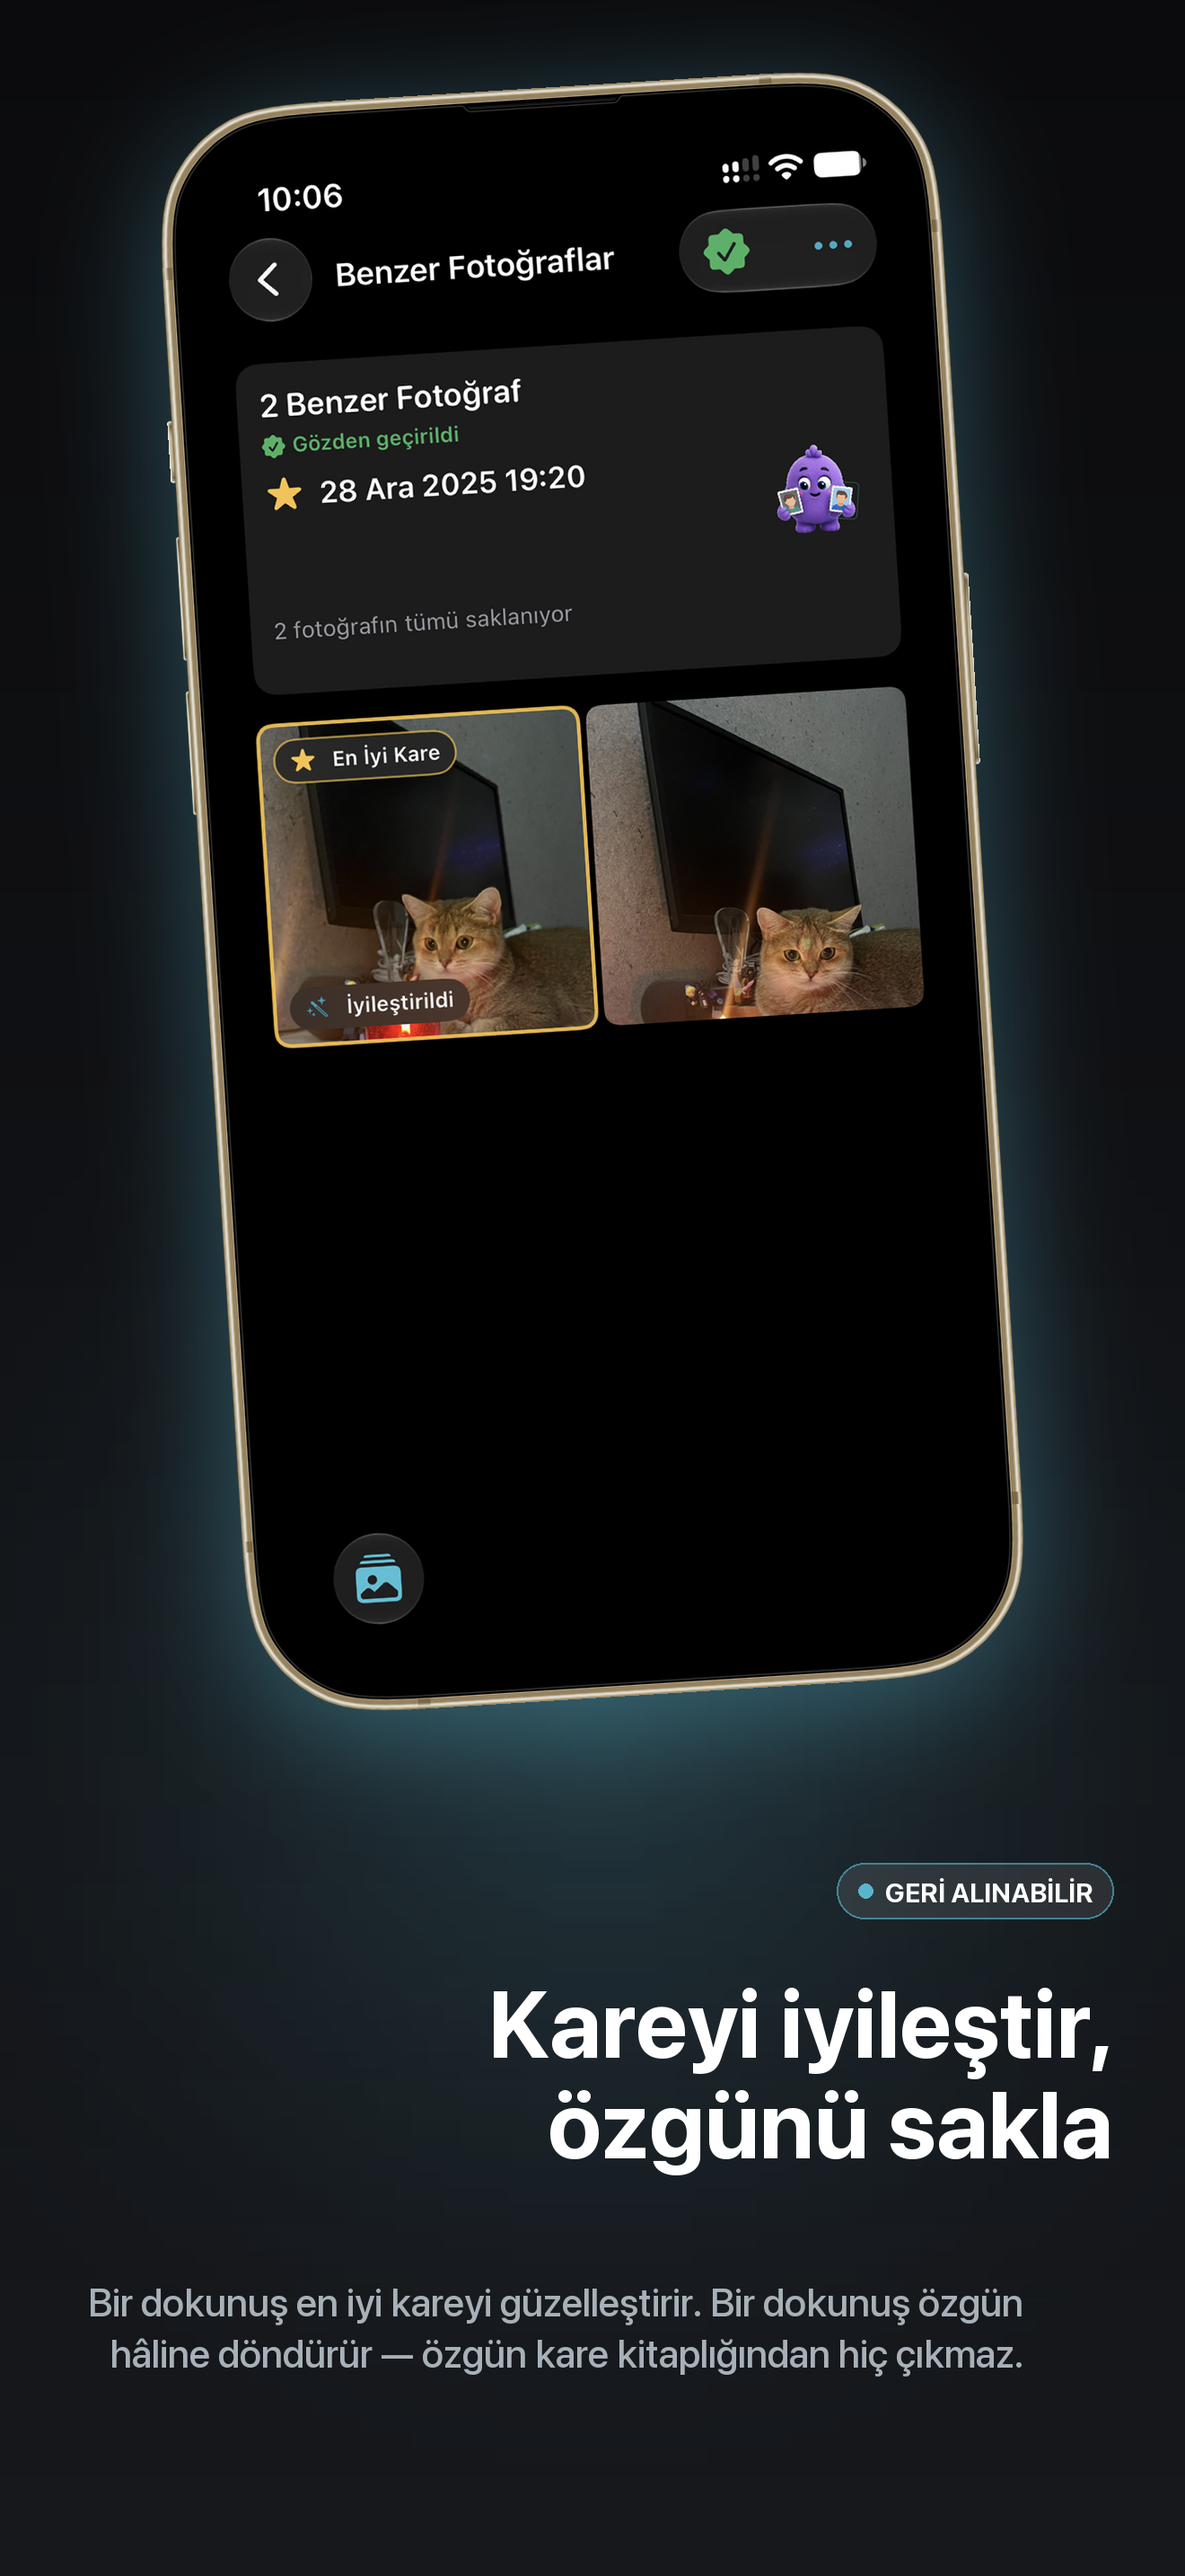
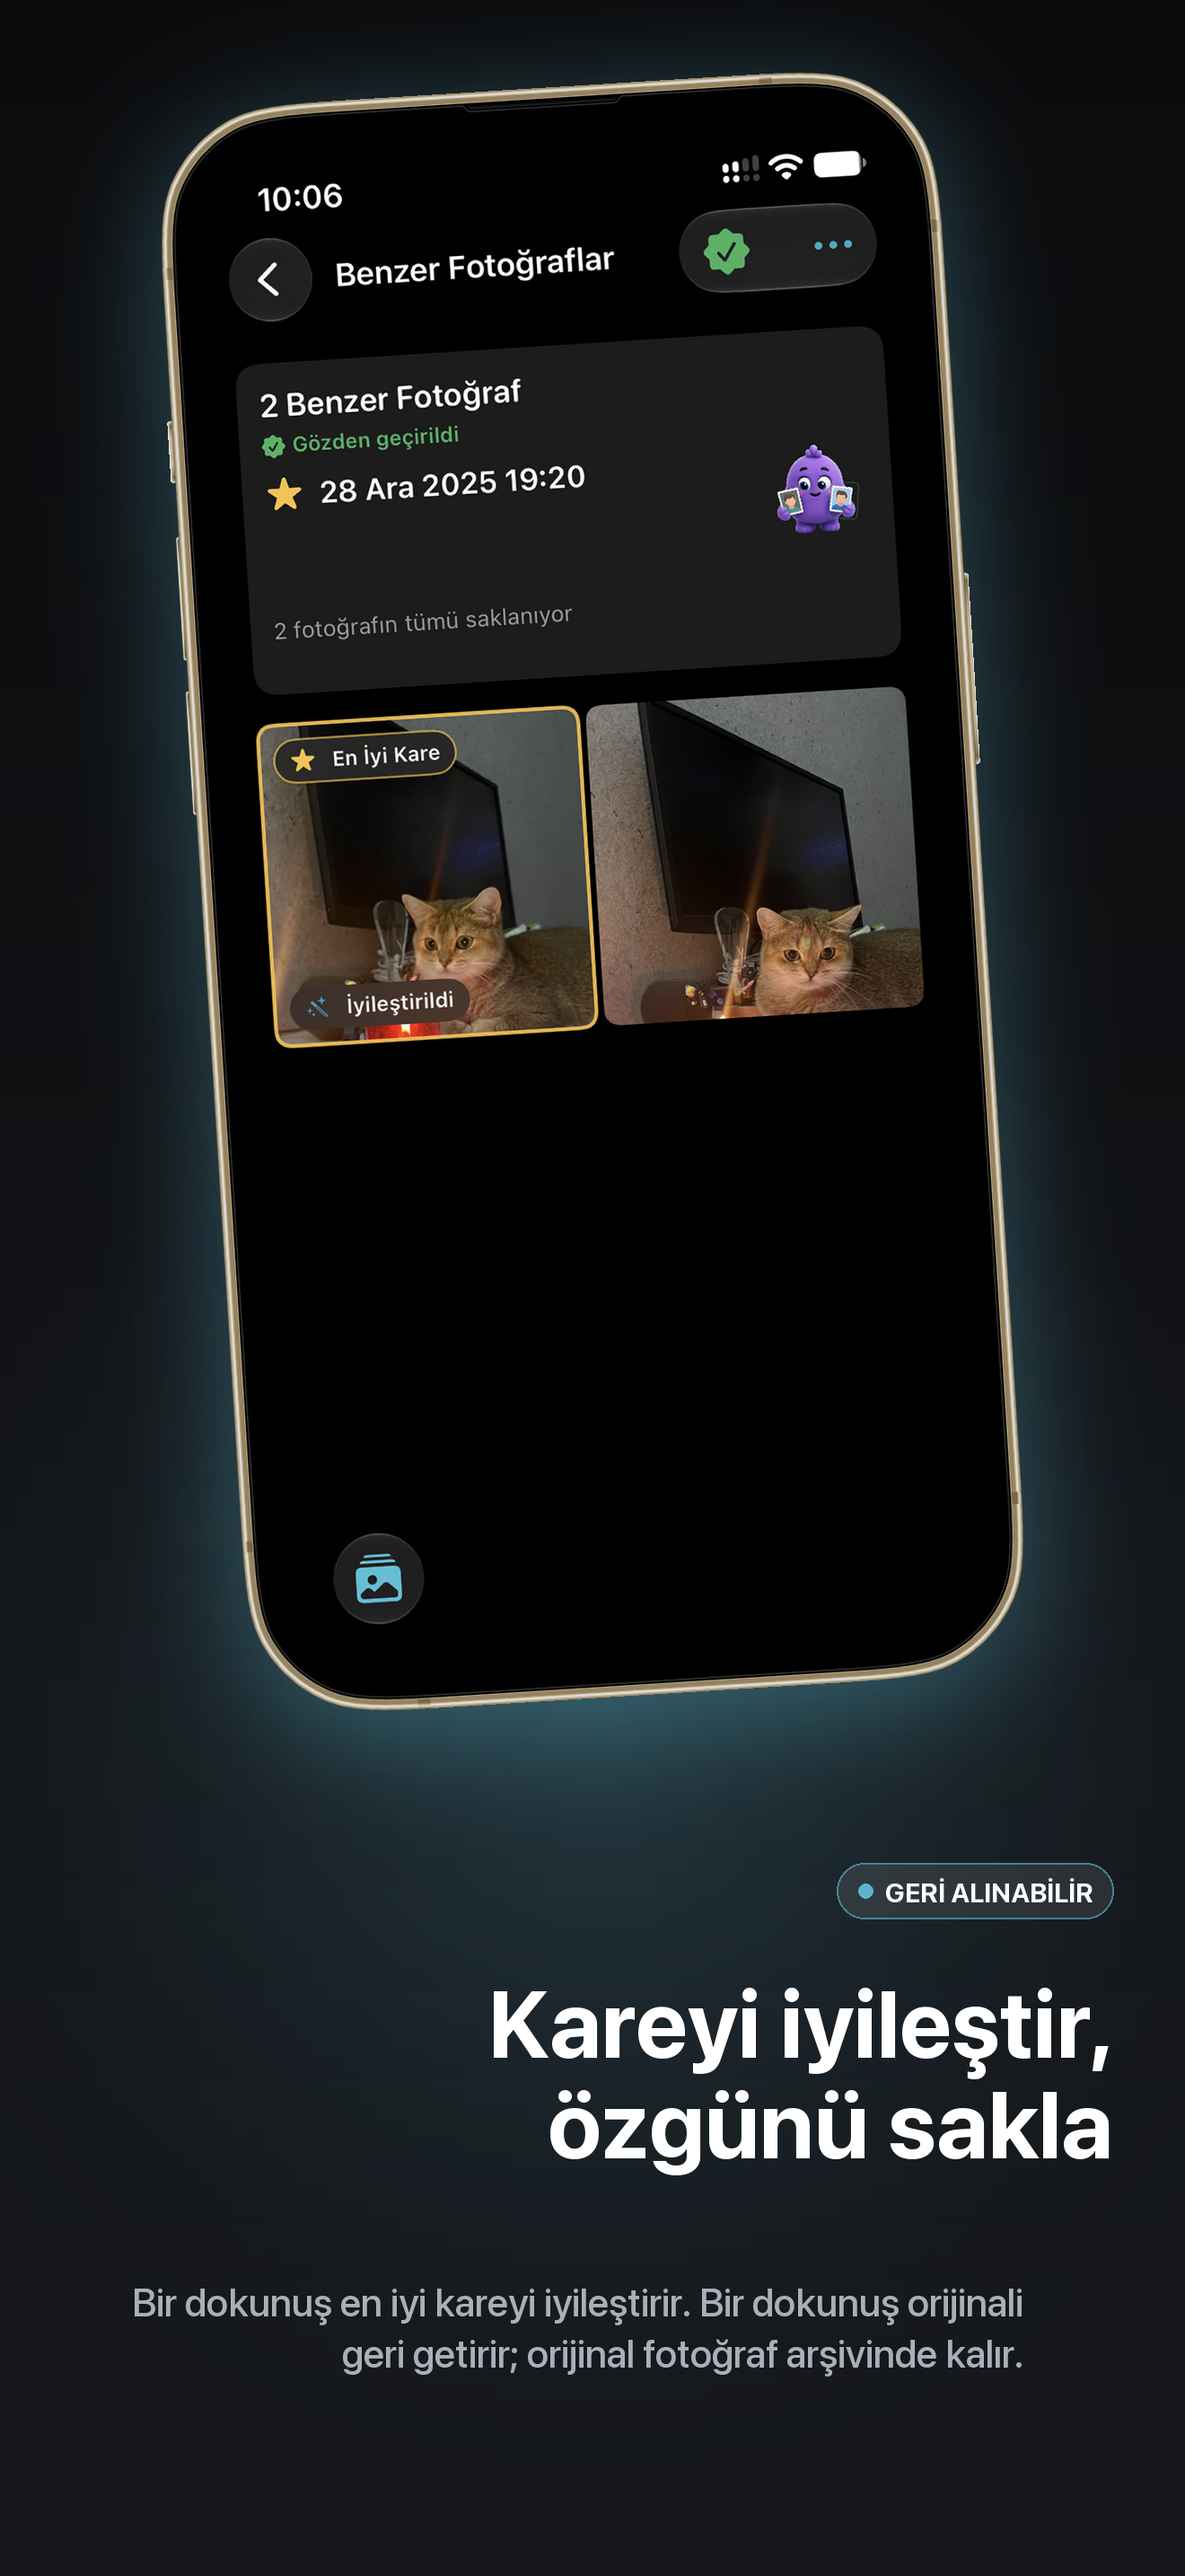
🌐 Turkish: clarify scan allowances and privacy copy, use Photos arşiv terminology, qualify App Store trial wording and refresh three screenshot captions

Changed region(s): [[0.0621, 0.8689, 0.8697, 0.931]]

diff --git a/tools/prepare_app_store_upload_bundle.py b/tools/prepare_app_store_upload_bundle.py
@@ -1256,6 +1256,105 @@ METADATA.update(
 )
 
 
+# Reviewed Turkish storefront copy.
+METADATA['tr'].update(
+{'description': 'Alike, birbirine çok benzeyen fotoğrafları gruplar, en iyi kareyi seçer ve diğerlerini '
+                "temizlemene yardımcı olur. Fotoğrafların iPhone'unda kalır.\n"
+                '\n'
+                'NASIL ÇALIŞIR\n'
+                "Tara. Alike, arşivini Apple'ın Vision çerçevesiyle tamamen iPhone'unda karşılaştırır. Zaman "
+                've yer olarak birbirine yakın çekilen fotoğraflar karşılaştırılır, ekran görüntüleri ise '
+                'sen istemedikçe sonuçlara girmez.\n'
+                'Gözden geçir. En iyi kare önceden seçilidir. Yalnızca onu sakla, diğerlerini seç veya '
+                'seçimini elle yap.\n'
+                "Temizle. Onayla; seçtiğin fotoğraflar Son Silinenler'e taşınır, iOS onları yaklaşık 30 gün "
+                'orada tutar. Fotoğraflar kalıcı olarak silinene kadar depolama alanı boşalmayabilir.\n'
+                '\n'
+                'MESELENİN TAMAMI GİZLİLİK\n'
+                "- Tüm analiz, Apple'ın Vision çerçevesiyle cihazın üzerinde çalışır.\n"
+                '- Hiçbir fotoğraf, küçük resim ya da öznitelik izi hiçbir zaman yüklenmez.\n'
+                '- Hesap yok, oturum açma yok, Alike sunucusu yok.\n'
+                '- Analitik yok, izleme yok, reklam tanımlayıcısı yok.\n'
+                '- Uygulamanın hiçbir yerinde reklam yok.\n'
+                '- Tarama ve temizlik hiçbir bağlantı gerektirmez — Alike uçak modunda da çalışır.\n'
+                '- Açık onayın olmadan hiçbir şey silinmez.\n'
+                '\n'
+                'FOTOĞRAF ARŞİVİN İÇİN\n'
+                '- Üç duyarlılık düzeyi: neredeyse aynı karelerden daha az benzeyen fotoğraflara.\n'
+                '- Fotoğrafların kendisini ölçen En İyi Kare algılama — netlik, pozlama, yüzler ve gürültü — '
+                'böylece her grupta saklanacak makul bir seçenek hazır bekler.\n'
+                '- Sakladığın fotoğraf için isteğe bağlı tek dokunuşluk iyileştirme; orijinali her zaman bir '
+                'dokunuş uzakta.\n'
+                '- Gözden geçirme rozetleri: Yeni, Gözden geçiriliyor, Gözden geçirildi ve yeni taramadan '
+                'sonra Gözden geçirilmeli.\n'
+                '- Fotoğraf ekler ya da silersin, Alike bunu fark eder ve yalnızca değişen grupları yeniden '
+                'getirir — baştan tam tarama gerekmez.\n'
+                '- Çalışırken İlerleme, Seçildi ve Tahmini Kazanç.\n'
+                '- Aya göre gruplanmış Temizlik Geçmişi, ne kadar yer kazandığını görebilesin diye.\n'
+                '- Ferah tek sütunlu düzen ya da daha sık ızgara; istediğin zaman değiştirilir ve '
+                'hatırlanır.\n'
+                "- Uygulamanın içinde aranabilir bir kullanım kılavuzu, Tarayıcı'dan bir dokunuş uzakta.\n"
+                '- İsteğe bağlı temizlik anımsatıcıları, kendi programına göre yerel bildirim olarak gelir.\n'
+                "- Ana ekranda ve kilitli ekranda widget'lar: kazanılabilir alan ve arşiva bir bakış.\n"
+                '- On üç dil ve tam Koyu Mod desteği.\n'
+                '\n'
+                'KONTROL SENDE\n'
+                '- İyileştirme hiçbir şeyi bozmaz: orijinal arşivinde kalır ve tek dokunuş onu geri '
+                'getirir.\n'
+                '- Alike kendi seçtiğin en iyi karelerden öğrenir — hem de cihazında; istediğin an '
+                "Ayarlar'dan sıfırlayabilirsin.\n"
+                '- Ayarlar, sonra Veriler ve Gizlilik, sonra Alike Verilerini Sil; uygulamanın sakladığı her '
+                'tarama sonucunu, temizlik kaydını ve tercihi siler — fotoğraf arşivine ise hiç dokunmaz.\n'
+                '- Tam erişim ya da sınırlı erişim ver: Alike paylaşmayı seçtiğin neyse onunla çalışır.\n'
+                '\n'
+                'ALIKE FREE\n'
+                '- Her takvim ayında 3 tarama\n'
+                '- En İyi Kare ile yönlendirilmiş gözden geçirme\n'
+                '- Tek dokunuşla iyileştirme, her zaman geri alınabilir\n'
+                '- Kendi seçimlerinden öğrenen En İyi Kare\n'
+                '- Sıralama ve temizlik geçmişi\n'
+                '- Fotoğrafları teker teker temizleme\n'
+                "- Widget'lar\n"
+                '\n'
+                'ALIKE PRO\n'
+                '- Yıllık planda 7 gün ücretsiz, uygun yeni aboneler için\n'
+                '- Sınırsız tarama\n'
+                '- Seçimlerin tamamını tek seferde temizleme\n'
+                '- Ekran görüntüsü temizliği\n'
+                '- Bulanık fotoğraf temizliği\n'
+                '- Gelişmiş filtreler\n'
+                '- Kendi temizlik anımsatıcıların\n'
+                '\n'
+                'Alike Pro, yıllık ve aylık planları olan, kendi para biriminde fiyatlanan otomatik '
+                'yenilenen bir aboneliktir. Yıllık plan, uygun yeni aboneler için 7 günlük ücretsiz deneme '
+                'içerir ve faturalandırma deneme sona erdiğinde başlar. Abonelikler, mevcut dönemin '
+                'bitiminden en az 24 saat önce iptal edilmediği sürece otomatik olarak yenilenir ve ödeme '
+                "Apple Hesabından tahsil edilir. Aboneliğini istediğin zaman iOS Ayarları'ndan yönetebilir "
+                'veya iptal edebilirsin.',
+ 'promotional_text': "Kazanabileceğin alanı gör. Fotoğrafların iPhone'unda kalır. Yıllık planda uygun yeni "
+                     'abonelere 7 günlük ücretsiz Pro denemesi. Reklam ve hesap yok.',
+ 'release_notes': "Alike iOS 27'ye hazır: yeni bir widget ve fotoğraflarını daha hızlı ayıklamanın bir "
+                  'yolu.\n'
+                  '\n'
+                  '- Yeni uzun widget ne kadar alan açabileceğini ve en büyük gruplarını gösterir; Benzer '
+                  "Fotoğraflar, Ekran görüntüleri ve Bulanık Fotoğraflar kısayolları da var. Ana Ekran'daki "
+                  'widget galerisinden ekleyebilirsin.\n'
+                  '- Bir grupta fotoğrafı açmadan kaydırarak seçebilir, saklayabilir veya En İyi Kare '
+                  'yapabilirsin. Kaydırma, Ekran Görüntüleri ekranında ve VoiceOver ile de çalışır.\n'
+                  "- Temizlik düğmeleri artık küçük iPhone'lara sığıyor ve fotoğraflar daha akıcı açılıyor.\n"
+                  '- Ana Ekran simgelerin renklendirilmiş veya şeffaf olduğunda widget çizimi renklerini '
+                  'korur.\n'
+                  '\n'
+                  'Yeni widget, kaydırma ve Temizlik düğmeleri iOS 27 gerektirir.\n'
+                  '\n'
+                  'Her şey yine cihazında çalışıyor: hesap yok, yükleme yok; temizlediklerin Son '
+                  "Silinenler'e gider, iOS onları yaklaşık 30 gün orada tutar.\n"
+                  '\n'
+                  'Geri bildirimler ve hata bildirimleri memnuniyetle karşılanır — App Store sayfasındaki '
+                  'destek bağlantısı doğrudan bana ulaşır.'}
+)
+
+
 def parse_args() -> argparse.Namespace:
     parser = argparse.ArgumentParser(description="Prepare Alike App Store metadata and screenshots for fastlane deliver.")
     parser.add_argument(

diff --git a/tools/generate_app_store_product_screenshots.py b/tools/generate_app_store_product_screenshots.py
@@ -690,7 +690,7 @@ COPY = {
         (
             "CİHAZDA",
             "Birbirine benzeyen\nfotoğrafları bul",
-            "Alike, kitaplığını Apple Vision ile tamamen iPhone'unda tarar.",
+            "Alike, fotoğraf arşivini Apple Vision ile tamamen iPhone'unda tarar.",
         ),
         (
             "TEK KUYRUK",
@@ -715,12 +715,12 @@ COPY = {
         (
             "GERİ ALINABİLİR",
             "Kareyi iyileştir,\nözgünü sakla",
-            "Bir dokunuş en iyi kareyi güzelleştirir. Bir dokunuş özgün hâline döndürür — özgün kare kitaplığından hiç çıkmaz.",
+            "Bir dokunuş en iyi kareyi iyileştirir. Bir dokunuş orijinali geri getirir; orijinal fotoğraf arşivinde kalır.",
         ),
         (
             "ANA EKRAN",
             "Alike’ı açmadan\ngörünür",
-            "İki widget: kazanabileceğin alan ve kitaplığında hâlâ duranlar.",
+            "İki widget: kazanabileceğin alan ve fotoğraf arşivinin özeti.",
         ),
     ],
     # Chinese headlines carry the same idea in about half the characters, so the
